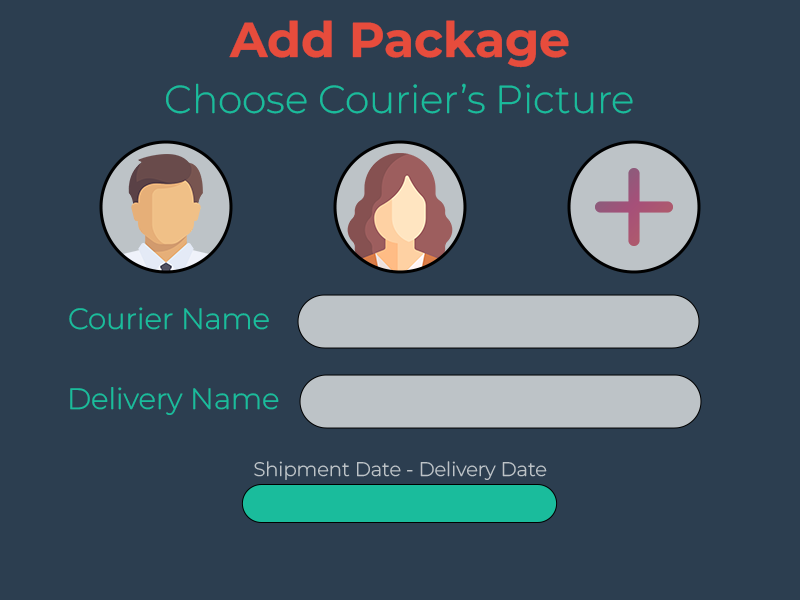
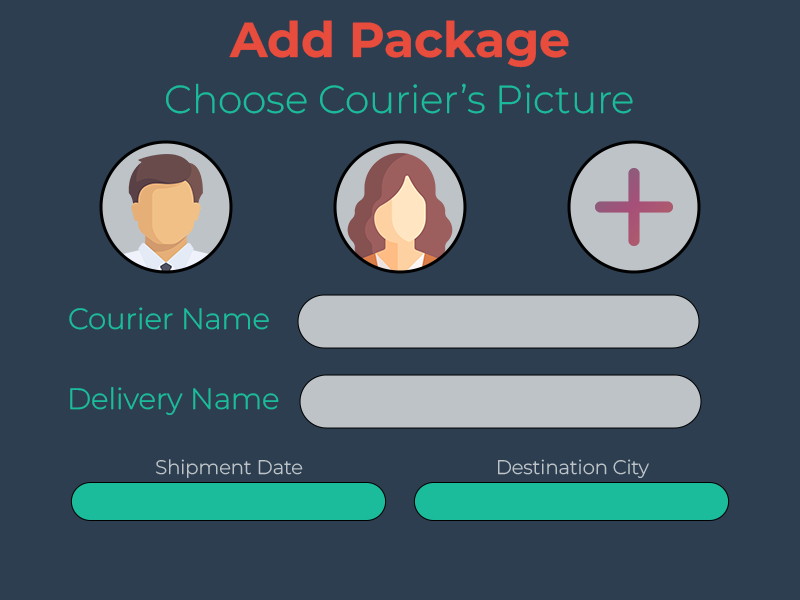
added some cargo parameters

Changed region(s): [[0.0625, 0.75, 0.9375, 0.87]]

diff --git a/src/main/java/org/geldikYoktunuz/Main.java b/src/main/java/org/geldikYoktunuz/Main.java
@@ -9,13 +9,13 @@ public class Main {
     public static void main(String[] args) {
 
         // 6 adet kargo nesnesi oluşturuyoruz
-        Cargo cargo1 = new Cargo( "20 Mayıs 2025", "23 Mayıs 2025", 3, false, "Mehmet Aydın");
-        Cargo cargo2 = new Cargo("1 Haziran 2025", "6 Temmuz 2025", 35, true, "Mehmet Aydın");
-        Cargo cargo3 = new Cargo( "1 Haziran 2025", "20 Haziran 2025", 19, true, "Semih Bekdaş");
-        Cargo cargo4 = new Cargo( "10 Temmuz 2025", "15 Temmuz 2025", 25, false, "Ahmet Yılmaz");
-        Cargo cargo5 = new Cargo( "15 Temmuz 2025", "25 Temmuz 2025", 30, true, "Mehmet Aydın");
-        Cargo cargo6 = new Cargo( "20 Temmuz 2025", "30 Temmuz 2025", 40, false, "Semih Bekdaş");
-        cargo5.setCargoStatus(CargoStatus.DELIVERED);
+//        Cargo cargo1 = new Cargo( "20 Mayıs 2025", "23 Mayıs 2025", 3, false, "Mehmet Aydın");
+//        Cargo cargo2 = new Cargo("1 Haziran 2025", "6 Temmuz 2025", 35, true, "Mehmet Aydın");
+//        Cargo cargo3 = new Cargo( "1 Haziran 2025", "20 Haziran 2025", 19, true, "Semih Bekdaş");
+//        Cargo cargo4 = new Cargo( "10 Temmuz 2025", "15 Temmuz 2025", 25, false, "Ahmet Yılmaz");
+//        Cargo cargo5 = new Cargo( "15 Temmuz 2025", "25 Temmuz 2025", 30, true, "Mehmet Aydın");
+//        Cargo cargo6 = new Cargo( "20 Temmuz 2025", "30 Temmuz 2025", 40, false, "Semih Bekdaş");
+//        cargo5.setCargoStatus(CargoStatus.DELIVERED);
 
         Customer customer1 = new Customer("Ahmed Er", "Faruk", "/dialogButtons/man.png");
         Customer customer2 = new Customer("Emre", "KarateKid", "/dialogButtons/woman.png");
@@ -23,13 +23,13 @@ public class Main {
         Customer customer4 = new Customer("İbrahim", "Çetin", "/dialogButtons/woman.png");
 
 
-//         Kargoları müşteriye ekliyoruz
-        customer1.addCargo(cargo1);
-        customer2.addCargo(cargo2);
-        customer1.addCargo(cargo3);
-        customer3.addCargo(cargo4);
-        customer1.addCargo(cargo5);
-        customer4.addCargo(cargo6); // 6. kargo da eklendi, böylece stack 5 kargo tutacak
+////         Kargoları müşteriye ekliyoruz
+//        customer1.addCargo(cargo1);
+//        customer2.addCargo(cargo2);
+//        customer1.addCargo(cargo3);
+//        customer3.addCargo(cargo4);
+//        customer1.addCargo(cargo5);
+//        customer4.addCargo(cargo6); // 6. kargo da eklendi, böylece stack 5 kargo tutacak
 
 //        // Müşterinin son 5 kargosunu alıyoruz
 ////        Stack<Cargo> recentCargos = customer1.getRecentCargosStack();
@@ -73,7 +73,7 @@ public class Main {
 //
         CargoRouting cr = new CargoRouting();
 
-        cr.routing(cargo6);
+//        cr.routing(cargo6);
 
 
         SignInFrame signInFrame = new SignInFrame();

diff --git a/src/main/java/org/geldikYoktunuz/ManagementMouseListener.java b/src/main/java/org/geldikYoktunuz/ManagementMouseListener.java
@@ -30,6 +30,7 @@ public class ManagementMouseListener implements MouseListener {
     private static boolean dontRing = false;
     private LocalDate[] selectedDates = new LocalDate[2];
     private JComboBox<Customer> comboBox;
+    private JComboBox<City> comboBoxCity;
 
     private JTextField textFieldName;
     private JTextField textFieldSurname;
@@ -666,7 +667,7 @@ public class ManagementMouseListener implements MouseListener {
         });
 
         JFormattedTextField editor = new JFormattedTextField();
-        editor.setBounds(241, 484, 317, 39);
+        editor.setBounds(70, 482, 317, 39);
         editor.setBackground(new Color(0x2c3e50));
 
         editor.setBorder(new RoundedBorder(20, Color.black, 2));
@@ -683,6 +684,49 @@ public class ManagementMouseListener implements MouseListener {
 
         editor.setSelectionColor(new Color(0xbdc3c7));
         editor.setSelectedTextColor(new Color(0x2c3e50));
+
+        UIManager.put("ComboBox.selectionBackground", new Color(0x159a80));
+        UIManager.put("ComboBox.selectionForeground", Color.WHITE);
+
+        UIManager.put("ComboBox.buttonArrowColor", Color.WHITE); // Set arrow color to black
+        UIManager.put("ComboBox.buttonBackground", new Color(0x2c3e50)); // Optional: Background color new Color(0x323232)
+
+
+        comboBox = new JComboBox<>();
+        comboBox.setBounds(413, 482, 317, 39);
+        comboBox.setBackground(new Color(0x159a80));
+
+        for (Customer customer : CustomerStorage.getAllCustomers().values()) {
+            comboBox.addItem(customer);
+        }
+
+        comboBox.setForeground(Color.WHITE);
+
+        // Customize Border: Focused and Non-Focused
+        Border defaultBorder = new CompoundBorder(
+                new LineBorder(new Color(0x159a80), 2), // Default border color
+                new EmptyBorder(5, 5, 5, 5)
+        );
+        Border focusedBorder = new CompoundBorder(
+                new LineBorder(Color.WHITE, 2), // White border when focused
+                new EmptyBorder(5, 5, 5, 5)
+        );
+
+        comboBox.setBorder(defaultBorder);
+
+        // Add focus listener to change border dynamically
+        comboBox.addFocusListener(new java.awt.event.FocusAdapter() {
+            @Override
+            public void focusGained(java.awt.event.FocusEvent e) {
+                comboBox.setBorder(focusedBorder);
+            }
+
+            @Override
+            public void focusLost(java.awt.event.FocusEvent e) {
+                comboBox.setBorder(defaultBorder);
+            }
+        });
+
 
         layeredPane.add(textFieldCourierName, JLayeredPane.PALETTE_LAYER);
         layeredPane.add(textFieldDeliveryName, JLayeredPane.PALETTE_LAYER);

diff --git a/src/main/java/org/geldikYoktunuz/Cargo.java b/src/main/java/org/geldikYoktunuz/Cargo.java
@@ -3,12 +3,13 @@ package org.geldikYoktunuz;
 import org.jetbrains.annotations.NotNull;
 
 import java.io.Serializable;
+import java.time.LocalDate;
 
 public class Cargo implements Comparable<Cargo> {
     public static int idCounter = 1;
 
     private int postId;
-    private String postDate;
+    private LocalDate postDate;
     private String deliveryDate;
     private int deliveryTime;
     private CargoStatus cargoStatus;
@@ -19,24 +20,9 @@ public class Cargo implements Comparable<Cargo> {
     private String courierPhoto;
     private String cargoName;
 
-    public Cargo(String postDate, String deliveryDate, int deliveryTime, boolean dontRing,String courierName) {
+    public Cargo(LocalDate postDate, boolean dontRing, String courierName, String courierPhoto, String cargoName , City city) {
         this.postId = idCounter++;
         this.postDate = postDate;
-        this.deliveryDate = deliveryDate;
-        this.deliveryTime = deliveryTime;
-        this.cargoStatus = CargoStatus.PENDING_APPROVAL;
-        this.dontRing = dontRing;
-        this.isCancelled = false;
-        this.courierName = courierName;
-
-        CargoStorage.addCargo(this);
-    }
-
-    public Cargo(String postDate, String deliveryDate, int deliveryTime, boolean dontRing,String courierName,String courierPhoto,String cargoName ,City city) {
-        this.postId = idCounter++;
-        this.postDate = postDate;
-        this.deliveryDate = deliveryDate;
-        this.deliveryTime = deliveryTime;
         this.cargoStatus = CargoStatus.PENDING_APPROVAL;
         this.dontRing = dontRing;
         this.isCancelled = false;
@@ -54,10 +40,10 @@ public class Cargo implements Comparable<Cargo> {
     public void setPostId(int postId) {
         this.postId = postId;
     }
-    public String getPostDate() {
+    public LocalDate getPostDate() {
         return postDate;
     }
-    public void setPostDate(String postDate) {
+    public void setPostDate(LocalDate postDate) {
         this.postDate = postDate;
     }
     public String getDeliveryDate() {
